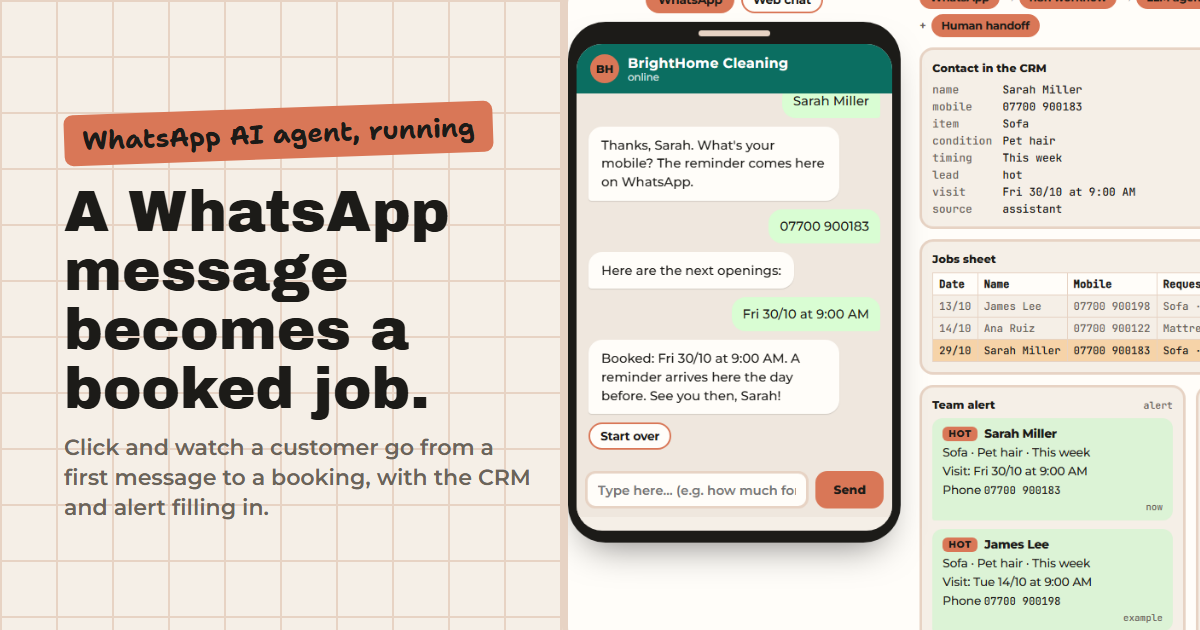
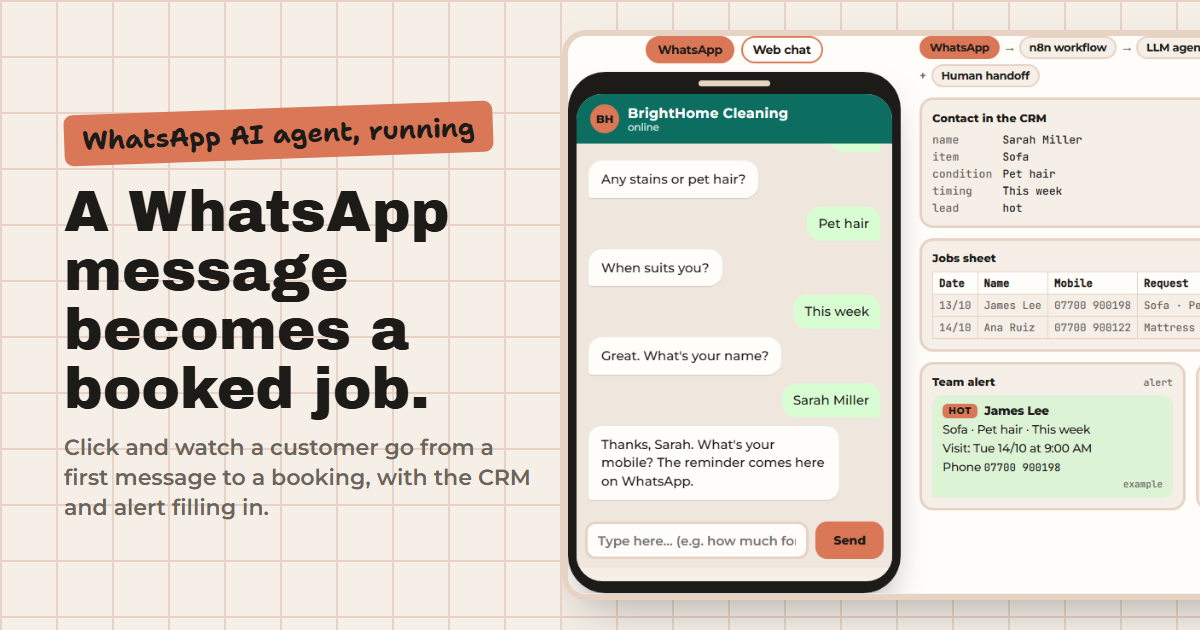
Demo resultise-wa-agent

Changed region(s): [[0.4625, 0.3921, 1.0, 1.0], [0.4625, 0.0, 1.0, 0.4825]]

diff --git a/resultise-wa-agent/index.html b/resultise-wa-agent/index.html
@@ -462,11 +462,22 @@ const D = {"idioma":"en-GB","titulo":"WhatsApp AI Agent demo","textos":{"etiquet
       () => { acender('#fx4'); $('#was').insertAdjacentHTML('afterbegin', cartaoWa(r, T.agora)); holofote('#pn-wa', fica); },
       () => { $('#mails').insertAdjacentHTML('afterbegin', cartaoMail(r, T.agora)); holofote('#pn-mail', fica * 2); setTimeout(() => acender(null), fica * 2); },
     ];
-    etapas.forEach((f, i) => setTimeout(f, fica * (i + 1)));
+    if (!modoExemplo) { etapas.forEach((f, i) => setTimeout(f, fica * (i + 1))); return; }
+    gravando = true; let j = 0;
+    const passo = () => { if (j >= etapas.length) { gravando = false; return; } etapas[j++](); setTimeout(passo, Math.max(fica, leitura())); };
+    setTimeout(passo, Math.max(fica, leitura()));
   }
   const chat = $('#chat');
   let modoExemplo = false;
   const ritmo = () => (modoExemplo ? { resposta: 1400, bastidor: 1100, turno: 3200 } : { resposta: 550, bastidor: 700, turno: 0 });
+  const pal = (t) => t.split(/\s+/).filter((w) => /[\p{L}\p{N}]/u.test(w));
+  let marco = ''; let gravando = false;
+  function leitura() {
+    const agora = document.body.innerText; const c = new Map(); let n = 0;
+    for (const w of pal(marco)) c.set(w, (c.get(w) || 0) + 1);
+    for (const w of pal(agora)) { const q = c.get(w) || 0; if (q > 0) c.set(w, q - 1); else n++; }
+    marco = agora; return n ? 1000 + (n / 4) * 1000 + 250 : 0;
+  }
   let etapa = 'livre'; let motivo = ''; let iq = 0;
   function diz(texto, opcoes) {
     const m = document.createElement('div'); m.className = 'msg ag'; m.textContent = texto; chat.appendChild(m);
@@ -511,7 +522,7 @@ const D = {"idioma":"en-GB","titulo":"WhatsApp AI Agent demo","textos":{"etiquet
   function responder(t) {
     t = t.trim(); if (!t) return; eu(t);
     const e = document.createElement('div'); e.className = 'msg ag escrevendo'; e.textContent = T.escrevendo; chat.appendChild(e); chat.scrollTop = chat.scrollHeight;
-    setTimeout(() => { e.remove(); processar(t); }, ritmo().resposta);
+    setTimeout(() => { e.remove(); processar(t); }, modoExemplo ? Math.max(ritmo().resposta, leitura()) : ritmo().resposta);
   }
   function processar(t) {
     if (etapa === 'fim') { if (t.toLowerCase() === T.recomecar.toLowerCase()) iniciar(); else diz(T.fimJaRegistado, [T.recomecar]); return; }
@@ -672,15 +683,15 @@ const D = {"idioma":"en-GB","titulo":"WhatsApp AI Agent demo","textos":{"etiquet
   chat.addEventListener('click', (e) => { if (e.isTrusted) parar(); }, { capture: true });
   $('#exemplo').addEventListener('click', () => {
     $('#exemplo').classList.remove('chamar');
-    const minha = ++rodada; let i = 0; aba(true); iniciar(); modoExemplo = true;
+    const minha = ++rodada; let i = 0; aba(true); iniciar(); modoExemplo = true; marco = document.body.innerText;
+    const quandoCalmo = (fn) => (function v() { if (minha !== rodada) return; if (gravando || chat.querySelector('.escrevendo')) setTimeout(v, 150); else setTimeout(fn, Math.max(1200, leitura())); })();
     (function proximo() {
       if (minha !== rodada) return;
-      if (i < D.roteiro.length) { responder(D.roteiro[i++]); setTimeout(proximo, ritmo().turno); }
-      else setTimeout(() => {
-        if (minha !== rodada) return;
+      if (i < D.roteiro.length) { responder(D.roteiro[i++]); setTimeout(() => quandoCalmo(proximo), 300); }
+      else {
         const o = chat.querySelector('.opcoes .chip'); if (o) o.click();
-        setTimeout(() => { if (minha === rodada) modoExemplo = false; }, 1400 + 1100 * 6);
-      }, 2000);
+        setTimeout(() => quandoCalmo(() => { if (minha === rodada) modoExemplo = false; }), 300);
+      }
     })();
   });
 })();
